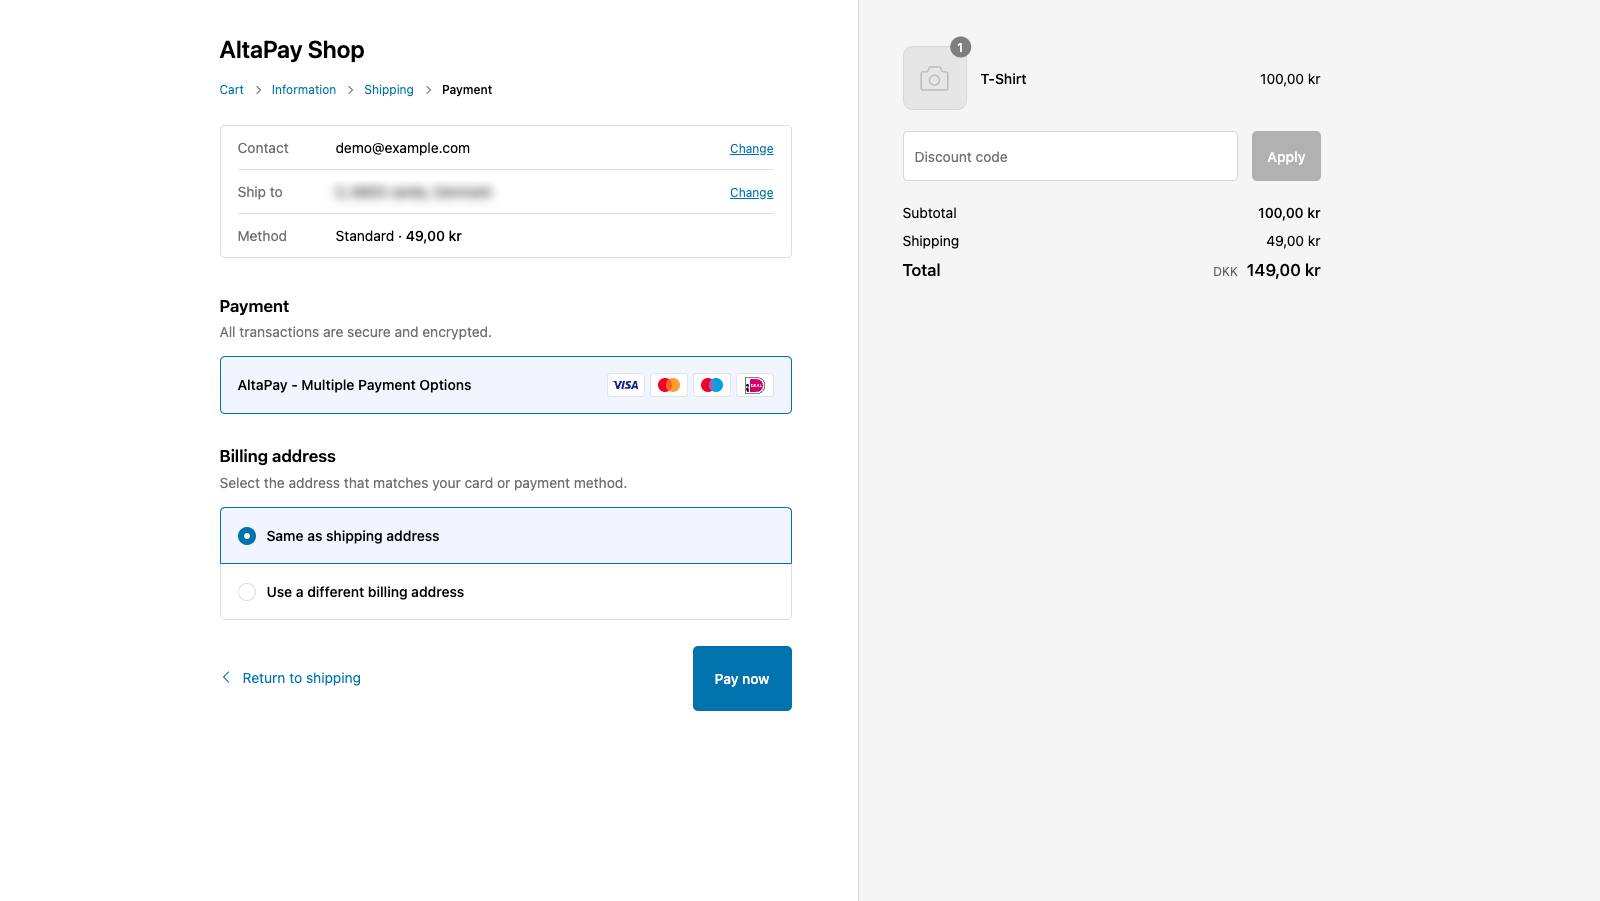
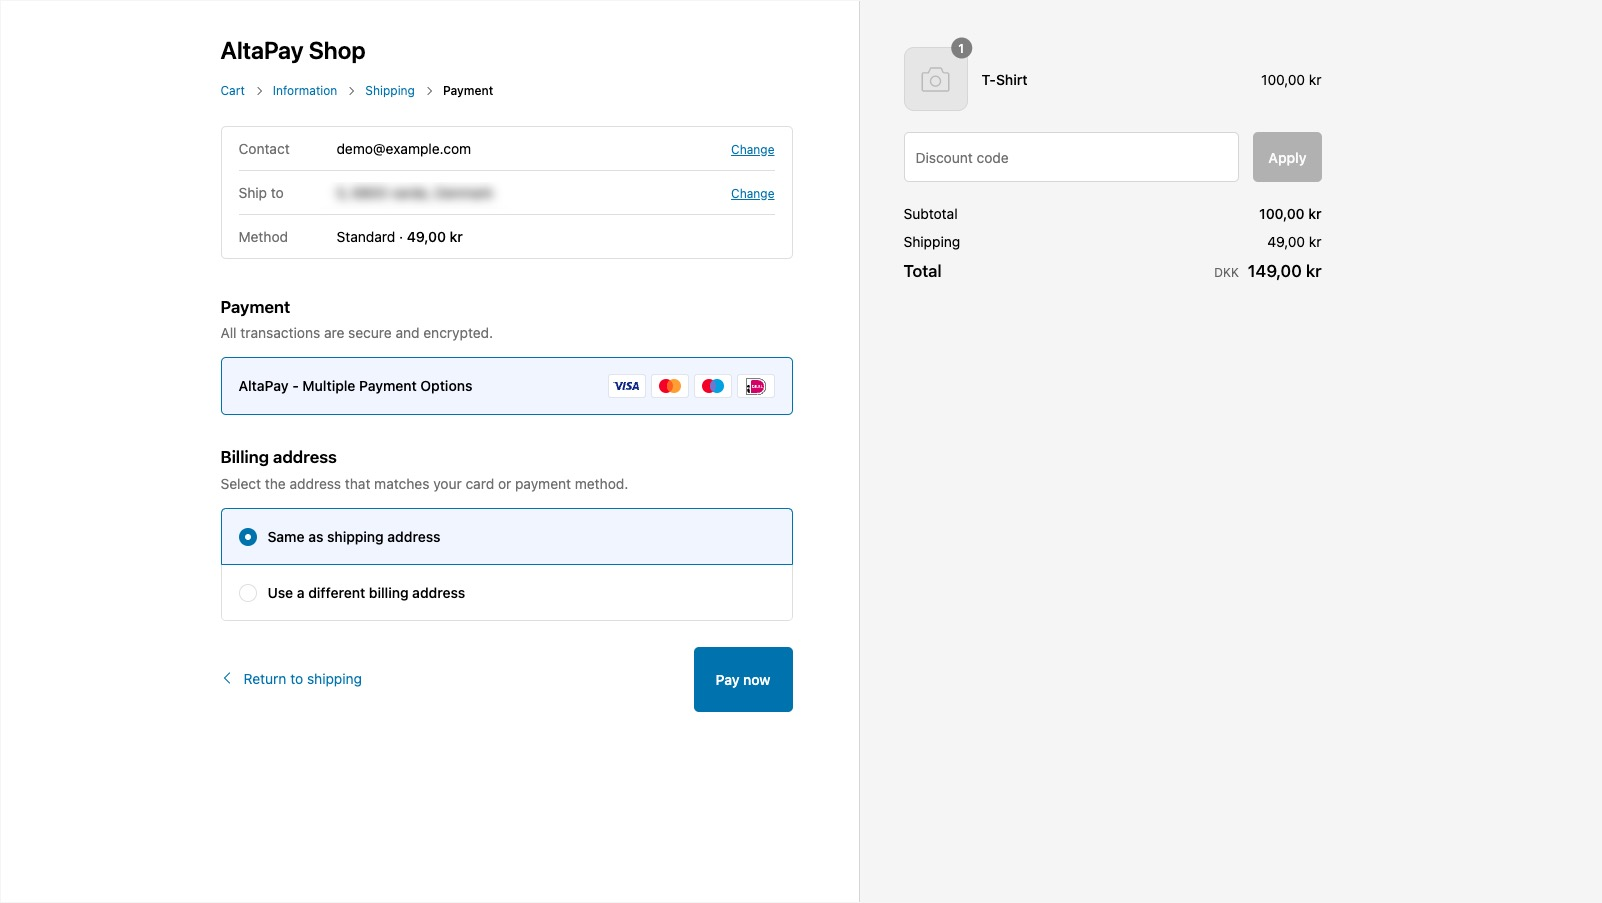
Add image border, minor changes in wiki and readme

diff --git a/wiki.md b/wiki.md
@@ -25,8 +25,8 @@ Installing these apps will enable the web shop to handle payments through AltaPa
 
  - [App Types](#app-types)
   
-    * [Multiple Payment Options app](#multiple-payment-options-app)
-    * [Individual Payment option app](#individual-payment-option-app)
+    * [Multiple Payment Options App](#multiple-payment-options-app)
+    * [Individual Payment option App](#individual-payment-option-app)
 
  - [Installation Links](#installation-links)
   
@@ -88,17 +88,18 @@ be provided by AltaPay.
 
 AltaPay offers two types of apps for Shopify payments. The first one shows a single payment option with the title "AltaPay - Multiple Payment Options" on the Shopify checkout page and the customer will see all the available options on the next page.
 
-The second one is to show each payment method individually on the Shopify checkout page. Once customer select that, he will be redirected to a sepecific payment method. That also reduces one step as compared to the above app type and increases the conversion rate as well.
+The second one is a separate app for each payment method individually shown on the Shopify checkout page. 
+Once a customer selects that, he will be redirected to the respective payment method. This also reduces one step as compared to the above app type and increases the conversion rate as well.
 
 Below are sections that include the sample screenshots of each app type.
 
-  * ### Multiple Payment Options app
+  * ### Multiple Payment Options App
 
     ![shopify_settings_menu](/Docs/app_types/multi_app_checkout.jpg)
 
     ![shopify_settings_menu](/Docs/app_types/multi_payment_page.jpg)
 
-  * ### Individual Payment option app
+  * ### Individual Payment option App
 
     ![shopify_settings_menu](/Docs/app_types/individual_app_checkout.jpg)
 

diff --git a/README.md b/README.md
@@ -7,7 +7,7 @@
 
 * ### Individual apps
 
-    * #### Card Payments app
+    * #### Card Payments
         https://apps.shopify.com/altapay-cc
 
     * #### MobilePay
